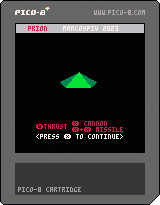
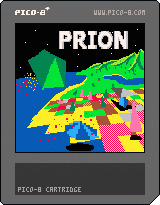
add screen_v1

diff --git a/README.md b/README.md
@@ -148,3 +148,7 @@ mutate itself by selecting a suitable bush and shooting it while within its
     - Score for a kill:		2000
     - Hits to kill: 25
     - Scanner Blip:	None
+
+
+import -l cover.png
+export -l cover.png
